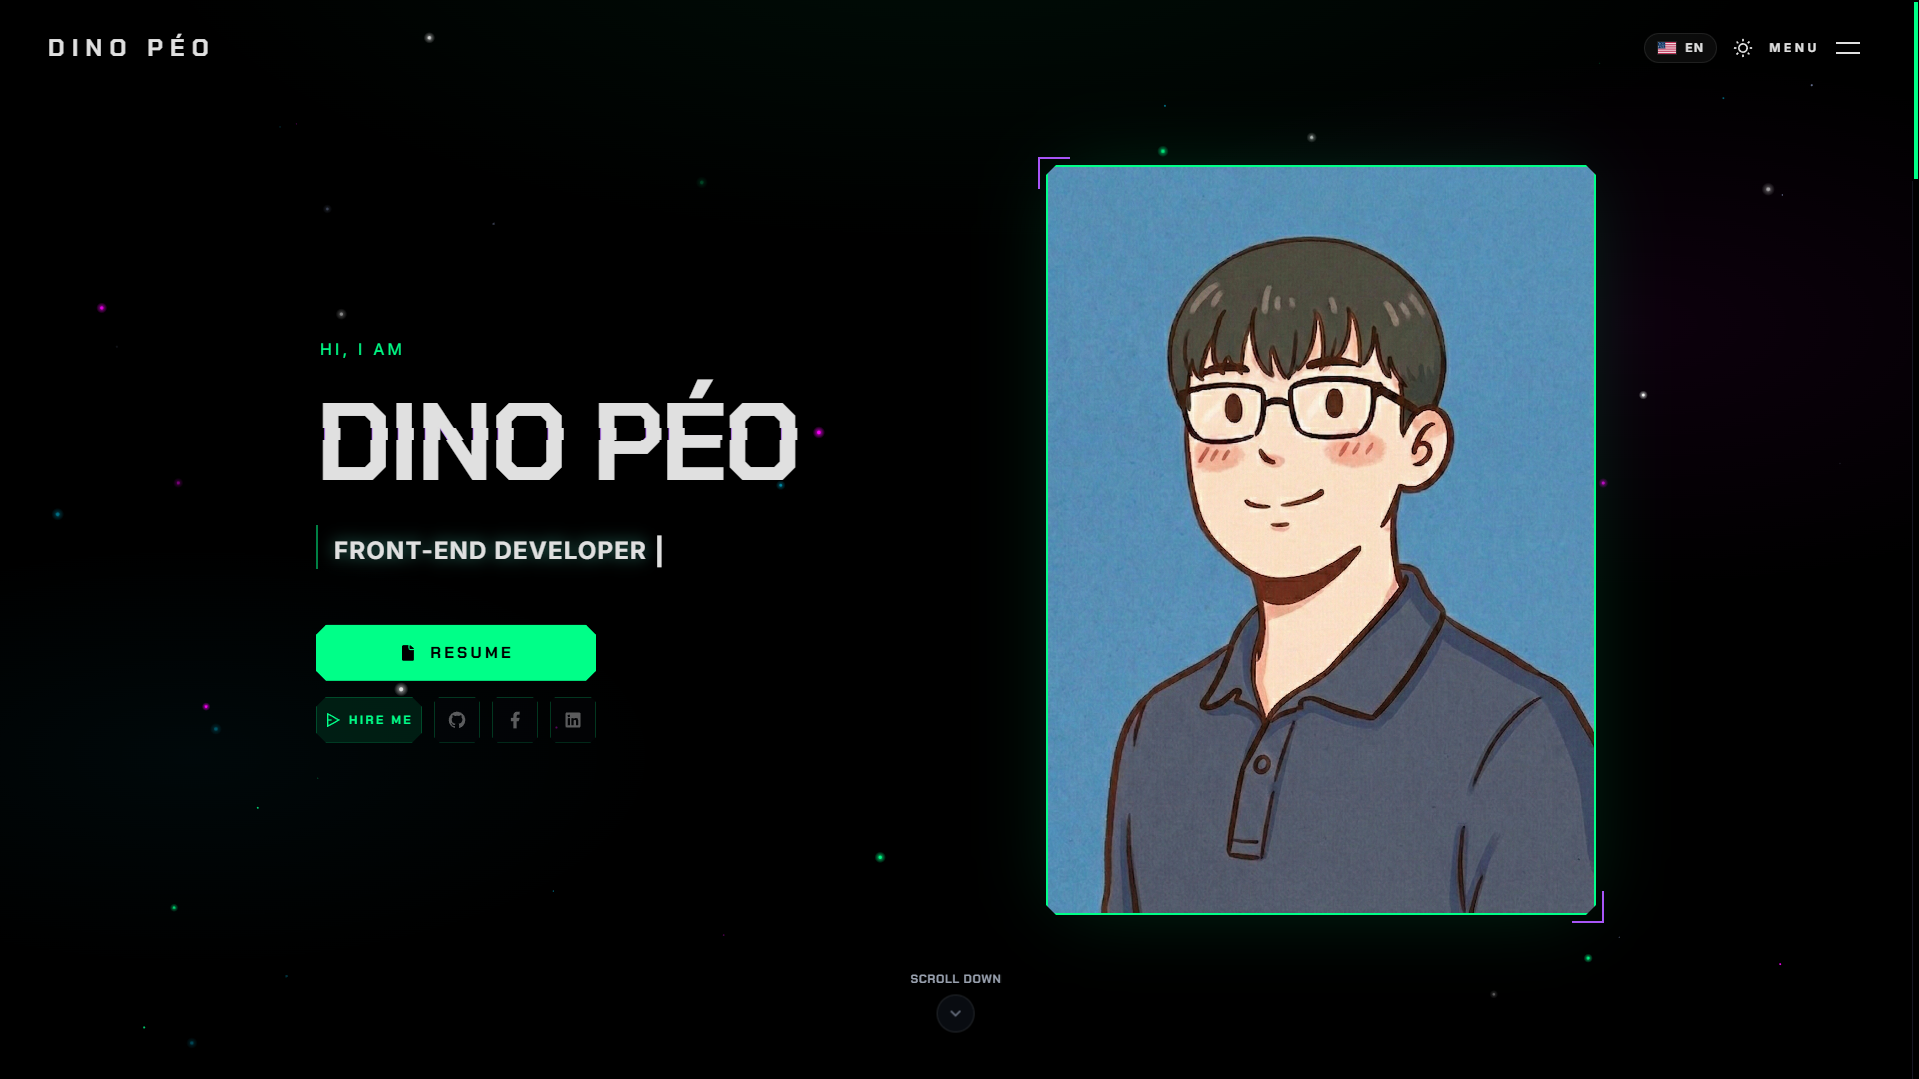
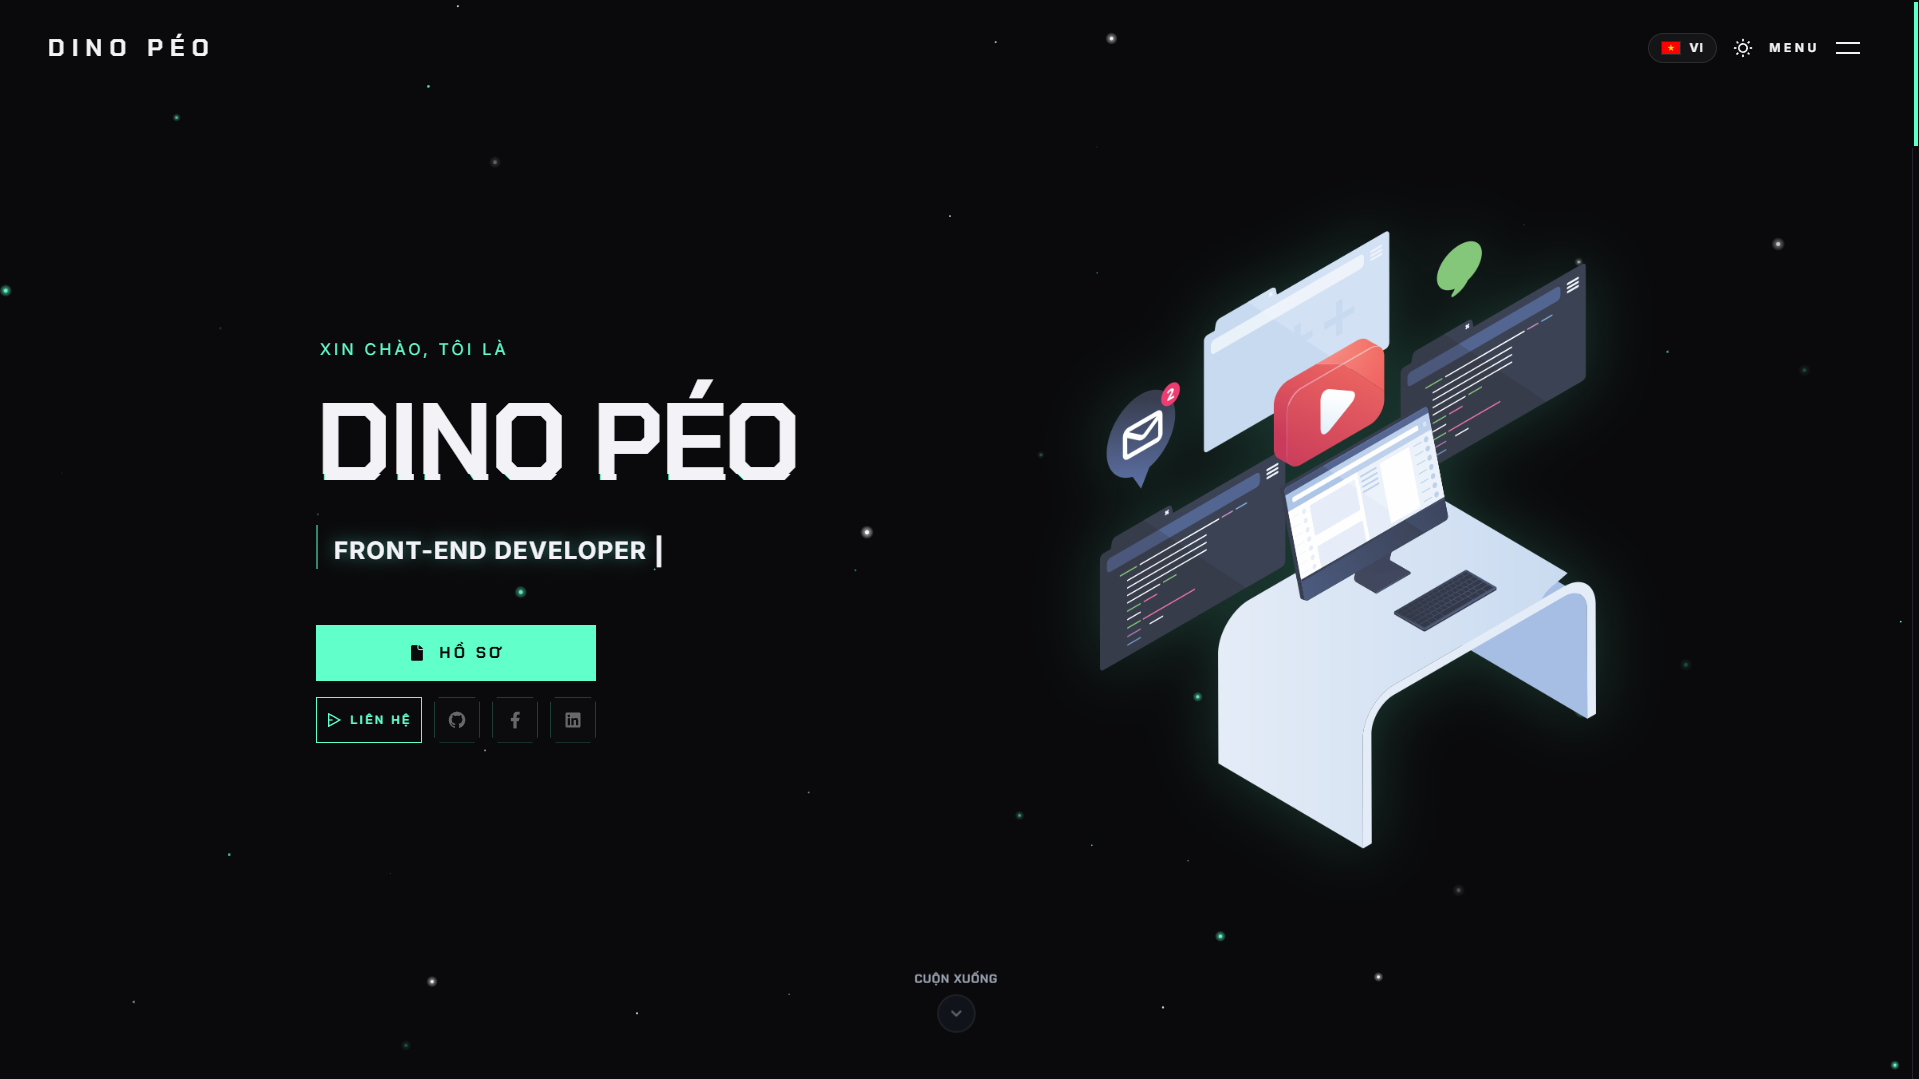
feat(portfolio): personalize content and refine UI layout
- Updated name to 'Trần Duy Phát' in About section and 'Dino Péo' for branding.
- Redesigned Featured Project links with text labels, longer arrows, and animated underlines.
- Unified horizontal padding and maximum width across all sections, header, and footer.
- Removed 'Home' link from navigation and set scroll offset to 0 for transparent navbar.
- Simplified Skills section by removing background decorative elements.
- Set sections with backgrounds to full screen height (min-h-screen).

diff --git a/src/features/project/FeaturedProject.tsx b/src/features/project/FeaturedProject.tsx
@@ -1,4 +1,5 @@
-import { FiExternalLink, FiGithub } from "react-icons/fi";
+import { FiGithub, FiMonitor } from "react-icons/fi";
+import { HiArrowLongRight } from "react-icons/hi2";
 import type { Project } from "../../types/data";
 import { useEffect, useRef, useState } from "react";
 import { useTranslation } from "react-i18next";
@@ -87,20 +88,19 @@ export default function FeaturedProject({
 
       {/* ICONS */}
       <div
-        className={`flex gap-4 justify-center ${project.reverse ? "md:justify-start" : "md:justify-end"}`}
+        className={`flex gap-8 justify-center ${project.reverse ? "md:justify-start" : "md:justify-end"}`}
       >
         {project.github && (
           <a
             href={project.github}
             target="_blank"
             rel="noopener noreferrer"
-            className="
-              p-3 bg-card border border-primary/50
-              text-foreground hover:text-primary hover:border-primary hover:cyber-glow
-              transition-all duration-300 cyber-chamfer
-            "
+            className="group relative flex items-center gap-2 text-foreground/80 hover:text-primary transition-colors duration-500 font-mono text-xs md:text-sm tracking-[0.2em] uppercase py-2"
           >
-            <FiGithub size={20} />
+            <FiGithub className="text-primary" />
+            <span>{t("common.links.source")}</span>
+            <HiArrowLongRight className="text-lg group-hover:translate-x-2 transition-transform duration-300" />
+            <div className="absolute -bottom-1 left-0 w-0 h-[1px] bg-primary group-hover:w-full transition-all duration-500 shadow-[0_0_8px_var(--primary)]"></div>
           </a>
         )}
 
@@ -109,13 +109,12 @@ export default function FeaturedProject({
             href={project.demo}
             target="_blank"
             rel="noopener noreferrer"
-            className="
-              p-3 bg-card border border-primary/50
-              text-foreground hover:text-primary hover:border-primary hover:cyber-glow
-              transition-all duration-300 flex items-center justify-center gap-2 cyber-chamfer
-            "
+            className="group relative flex items-center gap-2 text-foreground/80 hover:text-primary transition-colors duration-500 font-mono text-xs md:text-sm tracking-[0.2em] uppercase py-2"
           >
-            <FiExternalLink size={20} />
+            <FiMonitor className="text-primary" />
+            <span>{t("common.links.live")}</span>
+            <HiArrowLongRight className="text-lg group-hover:translate-x-2 transition-transform duration-300" />
+            <div className="absolute -bottom-1 left-0 w-0 h-[1px] bg-primary group-hover:w-full transition-all duration-500 shadow-[0_0_8px_var(--primary)]"></div>
           </a>
         )}
       </div>

diff --git a/src/features/skills/SkillsSection.tsx b/src/features/skills/SkillsSection.tsx
@@ -6,22 +6,7 @@ const SkillsSection: React.FC = () => {
   const { t } = useTranslation();
 
   return (
-    <section id="skills" className="py-24 relative overflow-hidden bg-background">
-      {/* Refined Cyber Mist Background */}
-      <div className="absolute inset-0 pointer-events-none -z-10">
-        {/* Base Gradient - Soft Green Glow */}
-        <div className="absolute inset-0 bg-[radial-gradient(circle_at_50%_50%,var(--primary)_0%,transparent_80%)] opacity-[0.05]" />
-
-        {/* Cloudy Volumetric Layers */}
-        <div className="absolute -top-[10%] -left-[10%] w-[60%] h-[60%] bg-primary/15 blur-[120px] rounded-full mix-blend-screen opacity-40 animate-pulse" />
-        <div className="absolute -bottom-[10%] -right-[10%] w-[60%] h-[60%] bg-primary/10 blur-[150px] rounded-full mix-blend-screen opacity-30" />
-        <div className="absolute top-[20%] right-[10%] w-[40%] h-[40%] bg-primary/10 blur-[100px] rounded-full mix-blend-screen opacity-20" />
-
-        {/* Technological Texture */}
-        <div className="absolute inset-0 cyber-lines opacity-[0.03]" />
-        <div className="absolute inset-0 cyber-noise opacity-[0.04] mix-blend-overlay" />
-      </div>
-
+    <section id="skills" className="py-24 relative overflow-hidden bg-transparent">
       <div className="max-w-7xl mx-auto px-6 md:px-12 mb-16">
         <span className="text-primary font-mono text-xs md:text-sm tracking-[0.3em] uppercase block mb-3">
           {t("skills.subtitle")}

diff --git a/src/features/contact/ContactForm.tsx b/src/features/contact/ContactForm.tsx
@@ -41,7 +41,7 @@ export default function ContactForm() {
             required
             className="
               w-full px-5 py-4 bg-card/40 border border-primary/20
-              text-foreground font-mono focus:border-primary focus:bg-card/60
+              text-foreground placeholder:text-foreground/30 font-mono focus:border-primary focus:bg-card/60
               outline-none transition-all rounded-none
             "
           />
@@ -60,7 +60,7 @@ export default function ContactForm() {
             required
             className="
               w-full px-5 py-4 bg-card/40 border border-primary/20
-              text-foreground font-mono focus:border-primary focus:bg-card/60
+              text-foreground placeholder:text-foreground/30 font-mono focus:border-primary focus:bg-card/60
               outline-none transition-all rounded-none
             "
           />
@@ -80,7 +80,7 @@ export default function ContactForm() {
           required
           className="
             w-full px-5 py-4 bg-card/40 border border-primary/20
-            text-foreground font-mono focus:border-primary focus:bg-card/60
+            text-foreground placeholder:text-foreground/30 font-mono focus:border-primary focus:bg-card/60
             outline-none transition-all resize-none rounded-none
           "
         />

diff --git a/src/features/contact/ContactSection.tsx b/src/features/contact/ContactSection.tsx
@@ -49,7 +49,7 @@ export default function ContactSection() {
   return (
     <motion.section
       id="contact"
-      className="py-24 relative overflow-hidden bg-[var(--background-alt)] transition-all duration-500"
+      className="min-h-screen flex items-center py-24 relative overflow-hidden bg-[var(--background-alt)] transition-all duration-500"
       variants={containerVariants}
       initial="hidden"
       whileInView="visible"
@@ -70,7 +70,7 @@ export default function ContactSection() {
 
       {/* Decorative side borders */}
 
-      <div className="max-w-7xl mx-auto px-6 mb-16">
+      <div className="max-w-7xl mx-auto px-6 md:px-12 mb-16">
         <motion.div variants={itemVariants} className="text-left space-y-4">
           <span className="text-primary font-mono text-xs md:text-sm tracking-[0.3em] uppercase block">
             {t("contact.subtitle")}

diff --git a/src/features/project/ProjectSecion.tsx b/src/features/project/ProjectSecion.tsx
@@ -11,7 +11,7 @@ export default function ProjectSection() {
   const { t } = useTranslation();
 
   return (
-    <section id="projects" className="py-32 relative overflow-hidden bg-card/5">
+    <section id="projects" className="min-h-screen py-32 relative overflow-hidden bg-card/5">
       {/* Dots Pattern Background */}
       <div className="absolute inset-0 cyber-dots pointer-events-none opacity-[0.05]" />
 
@@ -27,7 +27,7 @@ export default function ProjectSection() {
         </p>
       </div>
 
-      <div className="max-w-7xl mx-auto px-6">
+      <div className="max-w-7xl mx-auto px-6 md:px-12">
         {/* ================= FEATURED ================= */}
         <div className="mb-32">
           <div className="space-y-32">

diff --git a/src/features/hero/HeroSetion.tsx b/src/features/hero/HeroSetion.tsx
@@ -15,9 +15,9 @@ export default function HeroSection({ scrollToSection }: HeroSectionProps) {
   return (
     <section
       id="home"
-      className="relative min-h-screen flex items-center justify-center pt-28 pb-32 md:py-24 scroll-mt-20 md:scroll-mt-24 px-4 sm:px-6 lg:px-8"
+      className="relative min-h-screen flex items-center justify-center pt-28 pb-32 md:py-24 scroll-mt-20 md:scroll-mt-24"
     >
-      <div className="max-w-7xl w-full">
+      <div className="max-w-7xl mx-auto px-6 md:px-12 w-full">
         <div className="grid grid-cols-1 lg:grid-cols-12 gap-10 lg:gap-16 items-center relative">
           {/* Main Content */}
           <div className="lg:col-span-7 flex flex-col justify-center space-y-6">

diff --git a/src/constants/profileData.tsx b/src/constants/profileData.tsx
@@ -15,12 +15,12 @@ import { FaGamepad } from "react-icons/fa";
 import type { ProfileData } from "../types/data";
 
 export const profileData: ProfileData = {
-  name: "DINO PÉO",
+  name: "Dino Péo",
   logo: "DINO PÉO",
   resume: "/assets/docs/TranDuyPhat_CV.pdf",
   avatar: "/assets/profile/avatar.png",
   heroImage: "/assets/profile/hero.png",
-  roles: ["Software Engineer", "Web Developer", "Front-End Developer"],
+  roles: ["Front-End Developer", "React Developer", "Mobile Developer"],
   heroDescription: "",
 
   socialLinks: [

diff --git a/src/features/about/AboutSection.tsx b/src/features/about/AboutSection.tsx
@@ -10,7 +10,7 @@ const AboutSection: React.FC = () => {
   const paragraphs = t("about.paragraphs", { returnObjects: true }) as string[];
 
   return (
-    <section id="about" className="py-32 relative overflow-hidden bg-[var(--background-alt)]">
+    <section id="about" className="min-h-screen flex items-center py-24 relative overflow-hidden bg-[var(--background-alt)]">
       <div className="max-w-7xl mx-auto px-6 md:px-12">
         <div className="grid grid-cols-1 lg:grid-cols-12 gap-12 lg:gap-20 items-center">
 

diff --git a/src/components/general/Footer.tsx b/src/components/general/Footer.tsx
@@ -11,7 +11,7 @@ const Footer = () => {
       {/* Decorative Top Border */}
       <div className="absolute top-0 left-0 w-full h-[1px] bg-linear-to-r from-transparent via-primary/30 to-transparent"></div>
 
-      <div className="w-full max-w-7xl mx-auto px-6 sm:px-12">
+      <div className="w-full max-w-7xl mx-auto px-6 md:px-12">
         <div className="flex flex-col md:flex-row items-center justify-between gap-8 md:gap-4">
           
           {/* Left Side: Copyright Notice */}

diff --git a/src/pages/PortfolioPage.tsx b/src/pages/PortfolioPage.tsx
@@ -20,7 +20,7 @@ const PortfolioPage: React.FC = () => {
   const scrollToSection = (id: string) => {
     const el = document.getElementById(id);
     if (el) {
-      const yOffset = -64; // header height ~ 4rem
+      const yOffset = 0; // Transparent navbar - no offset needed
       const y = el.getBoundingClientRect().top + window.pageYOffset + yOffset;
       window.scrollTo({ top: y, behavior: "smooth" });
     }

diff --git a/src/components/general/Header.tsx b/src/components/general/Header.tsx
@@ -21,7 +21,6 @@ const Header: React.FC<HeaderProps> = ({ scrollToSection }) => {
 
   const navItems = useMemo(
     () => [
-      { name: t("nav.home"), href: "home" },
       { name: t("nav.about"), href: "about" },
       { name: t("nav.skills"), href: "skills" },
       { name: t("nav.projects"), href: "projects" },

diff --git a/README.md b/README.md
@@ -1,128 +1,38 @@
-# Portfolio - DINO PÉO
+# 🌌 Portfolio Cá Nhân — Dino Péo
 
-<div align="center">
-  <img src="public/assets/preview.png" alt="Dino Peo Portfolio Preview" width="800" style="border-radius: 10px; box-shadow: 0 20px 50px rgba(0,0,0,0.5);" />
-</div>
-
-<p align="center">
-  <a href="https://react.dev/"><img src="https://img.shields.io/badge/React-19.1.0-61DAFB?style=for-the-badge&logo=react&logoColor=white" alt="React"></a>
-  <a href="https://www.typescriptlang.org/"><img src="https://img.shields.io/badge/TypeScript-5.8.3-3178C6?style=for-the-badge&logo=typescript&logoColor=white" alt="TypeScript"></a>
-  <a href="https://vitejs.dev/"><img src="https://img.shields.io/badge/Vite-6.3.5-646CFF?style=for-the-badge&logo=vite&logoColor=white" alt="Vite"></a>
-  <a href="https://tailwindcss.com/"><img src="https://img.shields.io/badge/Tailwind_CSS-4.1.14-38B2AC?style=for-the-badge&logo=tailwind-css&logoColor=white" alt="TailwindCSS"></a>
-  <a href="https://www.framer.com/motion/"><img src="https://img.shields.io/badge/Framer_Motion-12.23.24-0055FF?style=for-the-badge&logo=framer&logoColor=white" alt="Framer Motion"></a>
-  <a href="https://zustand-demo.pmnd.rs/"><img src="https://img.shields.io/badge/Zustand-5.0.8-FF4154?style=for-the-badge&logo=react&logoColor=white" alt="Zustand"></a>
-</p>
-
-> **Trang web Portfolio cá nhân** với giao diện Dark Sci-Fi hiện đại, tối ưu hóa hiệu suất tuyệt đối. Dự án không chỉ là nơi trưng bày sản phẩm mà còn là minh chứng cho khả năng áp dụng các công nghệ tiên tiến như React 19, TypeScript và Framer Motion để tạo ra trải nghiệm người dùng đỉnh cao.
+Dự án Portfolio cá nhân hiệu năng cao, nơi trưng bày các kỹ năng kỹ thuật và các sản phẩm sáng tạo.
 
 ---
 
-## ✨ Tính năng Nổi bật
+## ⚡ Các Tính Năng Chính
 
-- 💎 **Modern UI/UX Aesthetic:** Giao diện Dark Mode tối ưu cho trải nghiệm người dùng, kết hợp hiệu ứng kính mờ (Glassmorphism) tinh tế.
-- 🌌 **Visual Minimalism:** Hiệu ứng hình ảnh nền động tinh xảo, được tối ưu hóa để không làm ảnh hưởng đến hiệu suất hệ thống.
-- 🌍 **Đa ngôn ngữ (i18n):** Hỗ trợ chuyển đổi ngôn ngữ linh hoạt giữa **Tiếng Việt** và **Tiếng Anh**.
-- 🌓 **Dynamic Theming:** Hệ thống chủ đề (Theme) linh hoạt, hỗ trợ Dark/Light mode thông qua CSS Variables.
-- ⚡ **Siêu tốc với React 19:** Sử dụng những tính năng mới nhất của React 19 và Vite 6 để đạt điểm Performance tuyệt đối.
-- 📽 **Animations mượt mà:** Sự kết hợp giữa Framer Motion mang lại các chuyển động tự nhiên, đạt chuẩn 60fps.
-- 📱 **Fully Responsive:** Hiển thị hoàn hảo trên mọi thiết bị từ Mobile đến Desktop.
-
----
-
-## 🛠 Công nghệ Sử dụng (Tech Stack)
-
-### Core
-
-- **Frontend Framework:** React 19
-- **Ngôn ngữ:** TypeScript 5.8 (Strict Mode)
-- **Build Tool:** Vite 6
-- **State Management:** Zustand 5
-- **Routing:** React Router v7
-
-### Styling & Animation
-
-- **CSS Engine:** Tailwind CSS 4.0
-- **Animations:** Framer Motion 12
-- **Icons:** Lucide React & React Icons
-- **Notifications:** React Toastify
-
-### Others
-
-- **Internationalization:** i18next
-- **Forms:** EmailJS (Gửi email trực tiếp từ form liên hệ)
+- **Phần Hero:** Giới thiệu với hiệu ứng gõ chữ (typing) các vai trò linh hoạt.
+- **Về Tôi:** Kinh nghiệm chuyên môn và sở thích cá nhân.
+- **Công Nghệ:** Hiển thị tương tác các công nghệ và kỹ năng sử dụng.
+- **Dự Án:** Trưng bày các dự án nổi bật và các sản phẩm đáng chú ý khác.
+- **Liên Hệ:** Biểu mẫu liên hệ hoạt động thực tế và tương tác email trực tiếp.
+- **Đa Ngôn Ngữ:** Hỗ trợ đầy đủ Tiếng Anh và Tiếng Việt.
+- **Chế Độ Giao Diện:** Chuyển đổi linh hoạt giữa chế độ Sáng và Tối.
 
 ---
 
-## 🚀 Dự án Nổi bật (Featured Projects)
+## 🛠 Công Nghệ Cốt Lõi
 
-| Dự án | Công nghệ | Liên kết |
-| :--- | :--- | :--- |
-| **LinkSnap** | Laravel, PHP, Tailwind, MySQL | [Repo](https://github.com/DuyPhatpeo/rutgonlink) / [Demo](https://linksnap.free.laravel.cloud/) |
-| **Personal Portfolio** | React 19, TS, Framer Motion | [Repo](https://github.com/DuyPhatpeo/portfolio) / [Demo](https://tranduyphat.vercel.app/) |
-| **Weather 24H** | React, TS, Zustand, OpenWeather API | [Repo](https://github.com/DuyPhatpeo/weather-app) / [Demo](https://thoitiet24h.vercel.app/) |
-| **E-Commerce Hub** | React, TS, Firebase, Zustand | [Repo](https://github.com/DuyPhatpeo/ecommerce) / [Demo](https://ecommerce-phat.vercel.app/) |
-
----
-
-## 📂 Cấu trúc Dự án (Feature-Driven Architecture)
-
-Dự án được tổ chức theo cấu trúc module giúp dễ dàng mở rộng và bảo trì:
-
-```text
-src/
-├── components/      # UI Components dùng chung (Atoms, Molecules)
-├── constants/       # Dữ liệu tĩnh, cấu hình dự án & profile
-├── features/        # Các module tính năng (Hero, About, Projects, Experience)
-├── hooks/           # Custom React Hooks
-├── i18n/            # Cấu hình đa ngôn ngữ (EN / VI)
-├── layouts/         # Các khung layout chung của ứng dụng
-├── routes/          # Quản lý định tuyến (React Router 7)
-├── stores/          # Quản lý state toàn cục (Zustand)
-└── styles/          # Cấu trúc theme & CSS Global
-```
+- **React 19**
+- **TypeScript**
+- **Vite**
+- **Tailwind CSS**
+- **Framer Motion**
 
 ---
 
-## ⚙ Cài đặt & Khởi chạy
+## ⚙ Cách Khởi Chạy
 
-1. **Clone dự án:**
-
-   ```bash
-   git clone https://github.com/DuyPhatpeo/portfolio.git
-   cd portfolio
-   ```
-
-2. **Cài đặt dependencies:**
-
-   ```bash
-   npm install
-   ```
-
-3. **Chạy môi trường phát triển:**
-
-   ```bash
-   npm run dev
-   ```
-
-4. **Build sản phẩm:**
-
-   ```bash
-   npm run build
-   ```
-
----
-
-## 👨💻 Tác giả
-
-**TRẦN DUY PHÁT (DINO PÉO)**
-*Web Developer | Front-End Enthusiast*
-
-- 🐙 **GitHub:** [@DuyPhatpeo](https://github.com/DuyPhatpeo)
-- 🔵 **Facebook:** [Trần Duy Phát](https://www.facebook.com/DinoPeo2810)
-- 💼 **LinkedIn:** [Tran Duy Phat](https://www.linkedin.com/in/tranduyphat/)
+1. `npm install`
+2. `npm run dev`
 
 ---
 
 <div align="center">
-  <p>Cảm ơn bạn đã ghé thăm Portfolio của tôi! Đừng quên để lại một ⭐ nếu bạn yêu thích kiến trúc này.</p>
+  <p>Được xây dựng bởi Dino Péo</p>
 </div>
